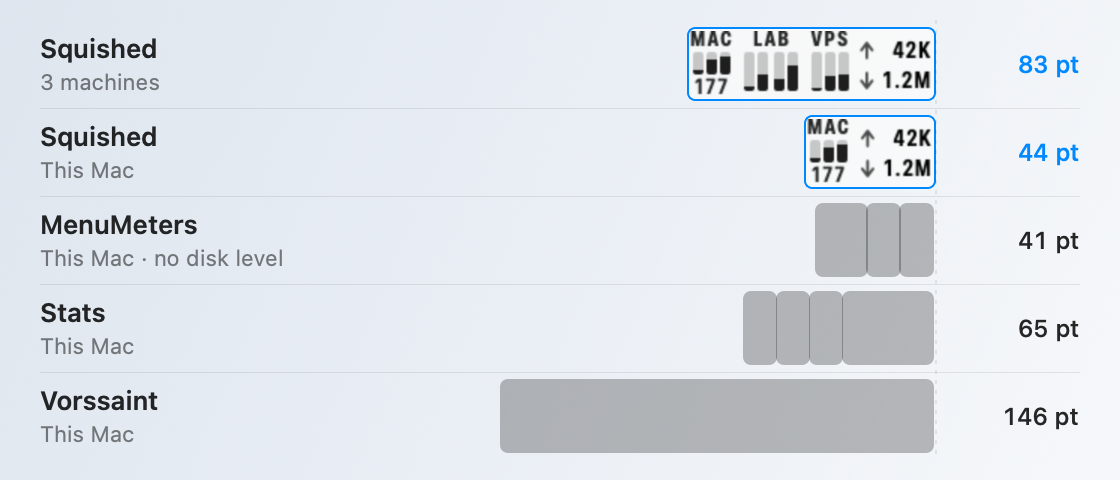
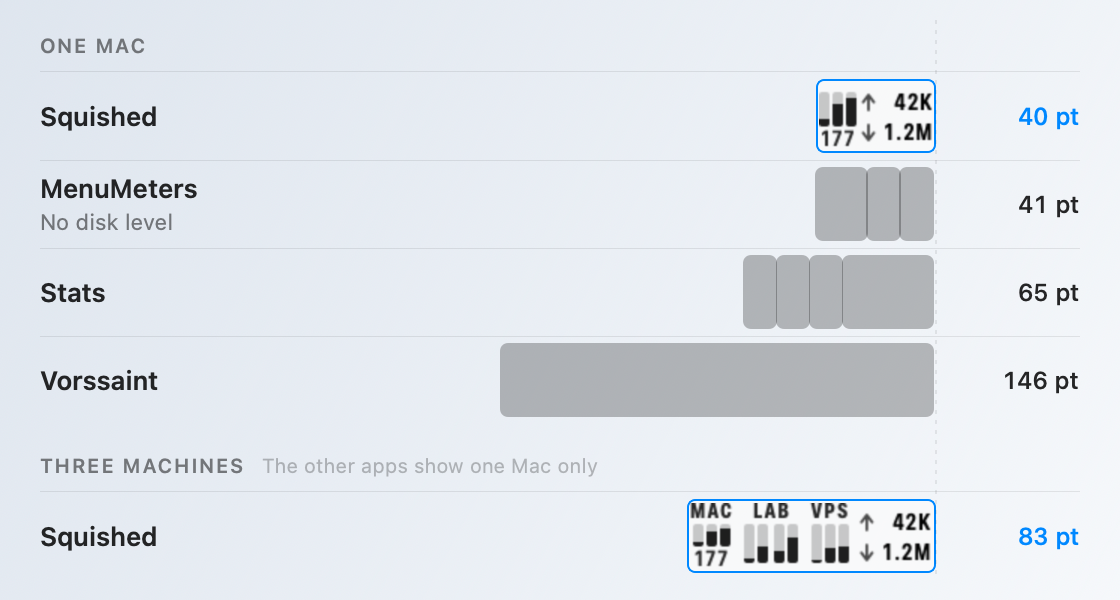
Make the one-Mac menu bar item narrower
When this Mac is the only machine shown, drop its label, let the bars use the
full height and move the network rates closer. Group the README width
comparison by how many machines each row shows.

diff --git a/Sources/Squished/UI/ReadmeImageRenderer.swift b/Sources/Squished/UI/ReadmeImageRenderer.swift
@@ -111,26 +111,25 @@ private struct MenuBarWidthComparison: View {
 
     private struct MeasuredApp {
         let name: String
-        let caption: String
+        var note: String?
         let span: CGFloat
         let items: [(offset: CGFloat, width: CGFloat)]
     }
 
-    // Accessibility frames can overlap. Offsets are relative to the leftmost frame.
+    // Each app showing one Mac. Accessibility frames can overlap; offsets are
+    // relative to the leftmost frame.
     private static let measuredApps: [MeasuredApp] = [
-        .init(name: "MenuMeters", caption: "This Mac · no disk level", span: 41, items: [(0, 19), (17, 13), (28, 13)]),
-        .init(name: "Stats", caption: "This Mac", span: 65, items: [(0, 12.5), (11, 12.5), (22, 12.5), (33, 32)]),
-        .init(name: "Vorssaint", caption: "This Mac", span: 146, items: [(0, 146)])
+        .init(name: "MenuMeters", note: "No disk level", span: 41, items: [(0, 19), (17, 13), (28, 13)]),
+        .init(name: "Stats", span: 65, items: [(0, 12.5), (11, 12.5), (22, 12.5), (33, 32)]),
+        .init(name: "Vorssaint", span: 146, items: [(0, 146)])
     ]
 
     var body: some View {
         VStack(spacing: 0) {
-            squishedRow("Squished", caption: "3 machines", item: fleetItem)
-            squishedRow("Squished", caption: "This Mac", item: localItem)
-                .overlay(alignment: .top) { separator }
-
+            section("ONE MAC")
+            squishedRow(item: localItem)
             ForEach(Self.measuredApps.sorted { $0.span < $1.span }, id: \.name) { app in
-                row(app.name, caption: app.caption, span: app.span, valueColor: .primary) {
+                row(app.name, note: app.note, span: app.span, valueColor: .primary) {
                     ZStack(alignment: .leading) {
                         ForEach(app.items.indices, id: \.self) { index in
                             let item = app.items[index]
@@ -146,6 +145,9 @@ private struct MenuBarWidthComparison: View {
                 }
                 .overlay(alignment: .top) { separator }
             }
+
+            section("THREE MACHINES", note: "The other apps show one Mac only").padding(.top, 8)
+            squishedRow(item: fleetItem)
         }
         .overlay {
             Canvas { context, size in
@@ -167,10 +169,22 @@ private struct MenuBarWidthComparison: View {
         Rectangle().fill(.primary.opacity(0.10)).frame(height: 0.5)
     }
 
-    private func squishedRow(_ name: String, caption: String, item: NSImage) -> some View {
+    private func section(_ title: String, note: String? = nil) -> some View {
+        HStack(alignment: .firstTextBaseline, spacing: 8) {
+            Text(title).font(.system(size: 10, weight: .semibold)).kerning(0.8).foregroundStyle(.secondary)
+            if let note {
+                Text(note).font(.system(size: 10)).foregroundStyle(.tertiary)
+            }
+            Spacer(minLength: 0)
+        }
+        .frame(height: 26)
+        .overlay(alignment: .bottom) { separator }
+    }
+
+    private func squishedRow(item: NSImage) -> some View {
         let span = item.size.width + Self.statusItemPadding
         let shape = RoundedRectangle(cornerRadius: 4)
-        return row(name, caption: caption, span: span, valueColor: .blue) {
+        return row("Squished", note: nil, span: span, valueColor: .blue) {
             Image(nsImage: item)
                 .resizable()
                 .frame(width: item.size.width * Self.widthScale, height: item.size.height * Self.widthScale)
@@ -180,12 +194,14 @@ private struct MenuBarWidthComparison: View {
         }
     }
 
-    private func row(_ name: String, caption: String, span: CGFloat, valueColor: Color,
+    private func row(_ name: String, note: String?, span: CGFloat, valueColor: Color,
                      @ViewBuilder content: () -> some View) -> some View {
         HStack(spacing: Self.columnSpacing) {
             VStack(alignment: .leading, spacing: 2) {
                 Text(name).font(.system(size: 13, weight: .semibold)).foregroundStyle(.primary)
-                Text(caption).font(.system(size: 11)).foregroundStyle(.secondary)
+                if let note {
+                    Text(note).font(.system(size: 11)).foregroundStyle(.secondary)
+                }
             }
             .frame(width: Self.labelWidth, alignment: .leading)
 

diff --git a/Sources/Squished/MenuBarRenderer.swift b/Sources/Squished/MenuBarRenderer.swift
@@ -65,6 +65,9 @@ final class MenuBarRenderer {
             host.config.showFreeSpaceInMenuBar
                 && (host.snapshot?.disks.prefix(2).contains { host.showsFreeSpace(for: $0) } ?? false)
         }
+        // This Mac on its own has nothing to be told apart from: it drops its label, the bars
+        // use that row, and the network rates (always this Mac's) sit closer.
+        let solo = visibleHosts.count == 1 && visibleHosts[0].config.kind == .local
         let entries = visibleHosts.map { host -> Entry in
             let state: Int
             switch host.state {
@@ -82,9 +85,9 @@ final class MenuBarRenderer {
                     : FleetFormat.compactFreeSpace(disk.total > disk.used ? disk.total - disk.used : 0))
             } : []
             // Reserve the number row for the whole host if any partition shows one.
-            let barY: CGFloat = stacked && !free.isEmpty ? 7.5 : 2
-            let barHeight: CGFloat = (stacked ? 15 : 13) - barY
-            return Entry(label: String(host.config.menuBarLabel.uppercased().prefix(4)),
+            let barY: CGFloat = stacked && !free.isEmpty ? 7.5 : solo ? 3 : 2
+            let barHeight: CGFloat = (solo ? 19 : stacked ? 15 : 13) - barY
+            return Entry(label: solo ? "" : String(host.config.menuBarLabel.uppercased().prefix(4)),
                          steps: values.map {
                              let value = max(0, min(100, $0 ?? 0))
                              return state >= 2 || value == 0 ? 0 : max(2, Int((value * Double(barHeight) * 2 / 100).rounded()))
@@ -128,8 +131,9 @@ final class MenuBarRenderer {
                                numbersInset: (width - numberWidth) / 2)
         }
         let networkWidth = 6.5 + Self.measure("999K", rateFont)
+        let networkGap: CGFloat = solo ? 2 : 4
         let machineWidth = layouts.reduce(0) { $0 + $1.width } + CGFloat(max(0, entries.count - 1)) * 4
-        let width = machineWidth + (network.isEmpty ? 0 : (entries.isEmpty ? 0 : 4) + networkWidth)
+        let width = machineWidth + (network.isEmpty ? 0 : (entries.isEmpty ? 0 : networkGap) + networkWidth)
             + (glyph.isEmpty ? 0 : (entries.isEmpty && network.isEmpty ? 0 : 3) + 11)
         let result = NSImage(size: NSSize(width: max(1, ceil(width)), height: 22), flipped: false) { _ in
             let draw = {
@@ -172,7 +176,7 @@ final class MenuBarRenderer {
                     x += width + (index < entries.count - 1 ? 4 : 0)
                 }
                 if !network.isEmpty {
-                    if !entries.isEmpty { x += 4 }
+                    if !entries.isEmpty { x += networkGap }
                     for row in 0..<2 {
                         let baseline: CGFloat = row == 0 ? 13 : 3
                         Self.arrow(up: row == 0, x: x, y: baseline,

diff --git a/README.md b/README.md
@@ -33,20 +33,25 @@ icons.
 Each machine gets a short label and three bars: CPU, memory and disk (up to
 two disk bars). The number under the Mac's disk is free space in GiB, shown
 because less than 30% is left. On the right are this Mac's upload and download
-rates, which you can hide in **Settings → General**.
+rates, which you can hide in **Settings → General**. When this Mac is the only
+machine in the menu bar, its label is dropped and the bars use the full height.
 
 ## How much room it takes
 
 <picture>
   <source media="(prefers-color-scheme: dark)" srcset="docs/images/widths-dark.png">
-  <img alt="Menu bar widths drawn to scale: Squished uses 83 points for three machines and 44 for one Mac; MenuMeters uses 41, Stats 65 and Vorssaint 146 for one Mac" src="docs/images/widths-light.png" width="560">
+  <img alt="Menu bar widths drawn to scale. Showing one Mac: Squished 40 points, MenuMeters 41, Stats 65, Vorssaint 146. Showing three machines: Squished 83 points" src="docs/images/widths-light.png" width="560">
 </picture>
 
-Squished fits three machines into about the space other monitors use for one
-Mac. Each app was set to show CPU, memory, disk and network in its most compact
-built-in style, and its menu bar items were measured on macOS 27.2 in November
-2026, including the gaps between them. Versions: MenuMeters 2.1.7, Stats 3.1.0
-and Vorssaint 3.4.4.
+For one Mac, Squished takes as little room as the most compact monitor measured
+here, with disk included. With two more machines added it is still narrower
+than some monitors are for one. MenuMeters, Stats and Vorssaint show only the
+Mac they run on.
+
+Each app was set to show CPU, memory, disk and network in its most compact
+built-in style (MenuMeters has no disk level), and its menu bar items were
+measured on macOS 27.2 in November 2026, including the gaps between them.
+Versions: MenuMeters 2.1.7, Stats 3.1.0 and Vorssaint 3.4.4.
 
 ## Install
 
@@ -67,6 +72,9 @@ Open **Settings → Hosts** and add an alias from your `~/.ssh/config`. Squished
 runs the system `ssh` in batch mode, so connect once to trust the host key
 and make sure it accepts a key login without a prompt (a key loaded in your
 SSH agent works).
+
+Each machine has a **Show in menu bar** switch. Turn it off to keep a machine
+in the panel without giving it room in the menu bar.
 
 Remote machines need Linux with `/proc`, `sh`, `awk` and standard utilities
 such as `df`. The sampler is tested on Ubuntu with gawk, mawk and BusyBox awk,
